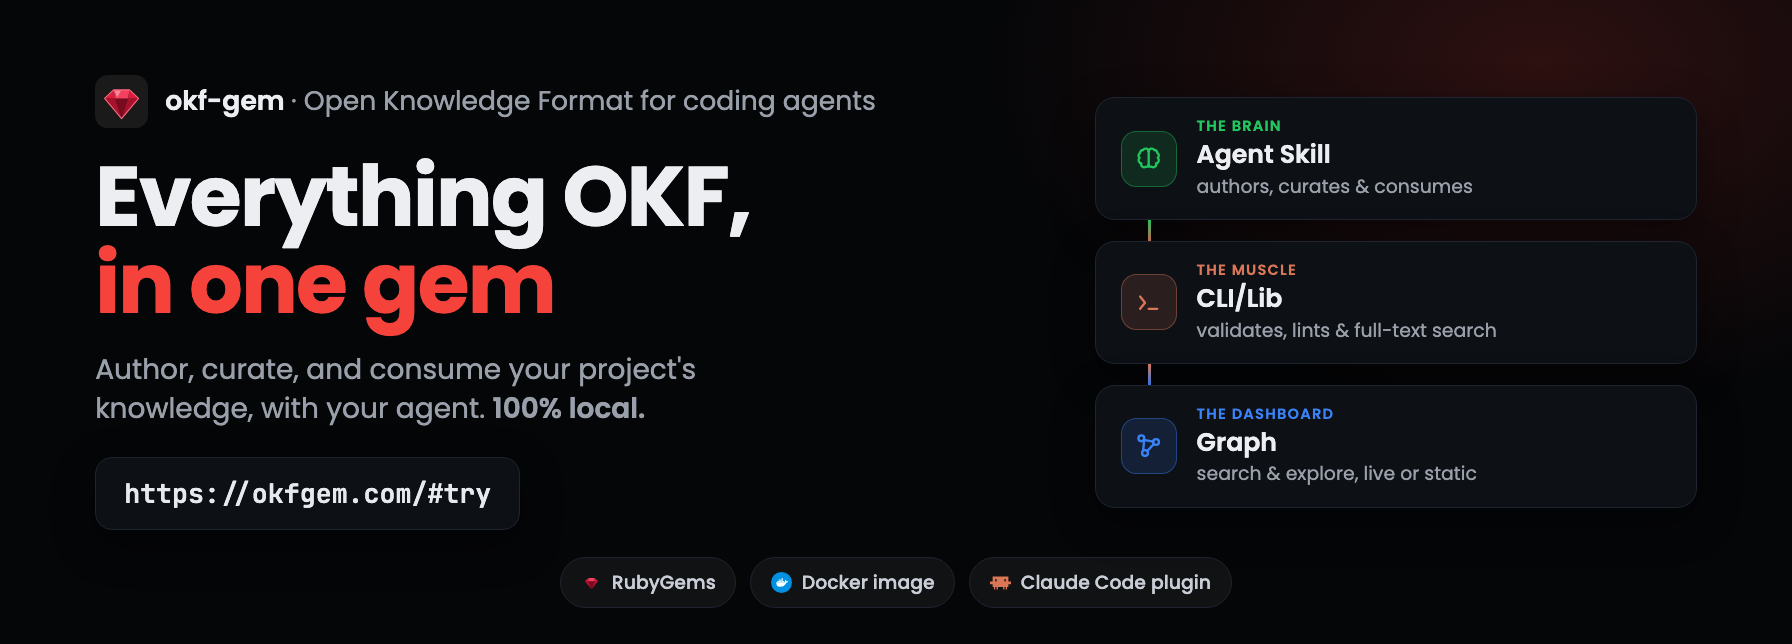
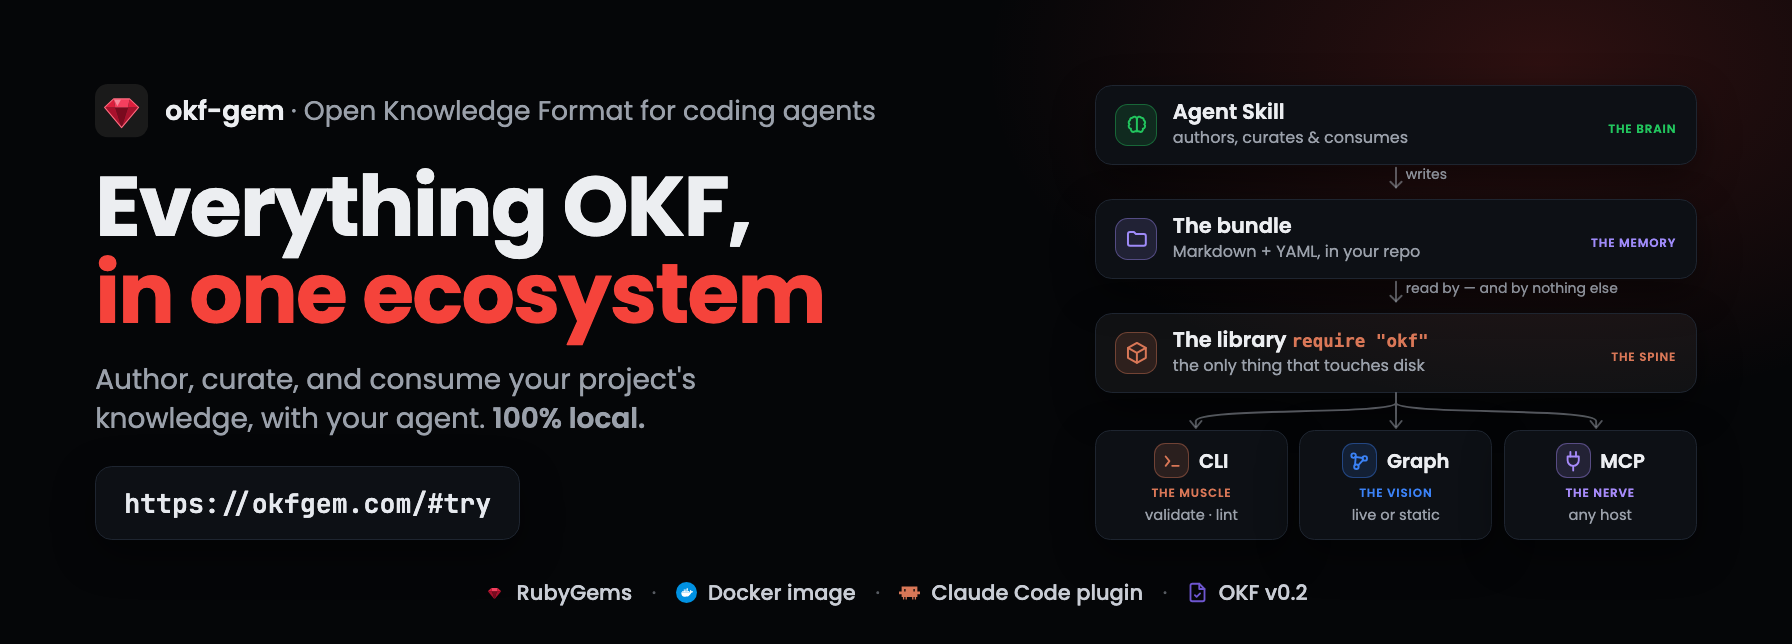
docs: the front door catches up with its art
The banner and the overview gain the MCP server, then the kernel the diagram
was missing, and both cards become that diagram in miniature. The README
follows: both alt texts rewritten, and the single-gem claim retired now that
okf-mcp 1.0.0 has shipped.

────────────────────────────────────────────────────────────────────

docs: the README's art shows MCP, and its alt text says what the art says

Re-rendered from the site's og-src generators: the banner and the overview
diagram now carry the MCP server, and the diagram is drawn in the banner's
own visual language rather than beside it.

Both alt texts are rewritten, because they are the image for a terminal, a
screen reader, and any agent that never fetches the PNG — the banner's
carries "in one ecosystem", the muscle as CLI/Lib and MCP, and the OKF v0.2
chip; the diagram's gains the MCP server as the door that reads and never
writes, and corrects conformance from section 9 to section 11, which the
published v0.2 renumbered.

social-preview.png is the versioned source only. GitHub does not read the
committed file, so the repository's card does not change until it is
uploaded under Settings -> Social preview.

────────────────────────────────────────────────────────────────────

docs: the art draws the kernel it was missing, and the cards carry it in miniature

Re-rendered from the site's og-src generators.

The overview diagram showed the bundle read by three independent things, and
[…]

diff --git a/README.md b/README.md
@@ -2,7 +2,7 @@
   <a href="https://okfgem.com">
     <picture>
       <source media="(prefers-color-scheme: dark)" srcset=".github/hero-dark.png">
-      <img src=".github/hero-light.png" width="100%" alt="okf-gem, the Open Knowledge Format toolkit. Everything OKF, in one gem: author, curate, and consume your project's knowledge, with your agent. 100% local. Start at https://okfgem.com/#try. Three pieces in one install: the Agent Skill (the brain) authors, curates and consumes; the CLI/Lib (the muscle) validates, lints and does full-text search; the Graph (the dashboard) searches and explores it, live or static. Available from RubyGems, as a Docker image, and as a Claude Code plugin.">
+      <img src=".github/hero-light.png" width="100%" alt="okf-gem, the Open Knowledge Format for coding agents. Everything OKF, in one ecosystem: author, curate, and consume your project's knowledge, with your agent. 100% local. Start at https://okfgem.com/#try. The pieces, top to bottom: the Agent Skill (the brain) authors, curates and consumes, and writes the bundle (the memory) — Markdown + YAML, in your repo. The bundle is read by, and by nothing else, the library (the spine): require okf, the only thing that touches disk. Three surfaces sit over it — the CLI (the muscle) for validate and lint, the Graph (the vision) live or static, and MCP (the nerve) for any host. Available from RubyGems, as a Docker image, and as a Claude Code plugin, speaking OKF v0.2.">
     </picture>
   </a>
 </p>
@@ -31,13 +31,13 @@ durable home in your repo, in Markdown your team and your agents both read: the
 decisions and the reasoning an agent cannot re-derive from the code, versioned
 beside the code they explain.
 
-One install carries the whole workflow, and that is the point of a single gem:
+One install carries the whole workflow, and that is the point:
 
 - an **Agent Skill**, so your agent writes and curates the knowledge instead of you;
 - a **CLI and Ruby library**, so it stays correct: validated, linted, and searchable in milliseconds;
 - a **Graph**, so anyone can see the shape of what the team knows, live or as one static file you can host anywhere.
 
-The package is **Agent Skill + CLI/Lib + Graph**. It runs 100% local, adds no
+That is **Agent Skill + CLI/Lib + Graph**. It runs 100% local, adds no
 service to your stack, and does not define a new place to keep knowledge: it
 gives you leverage over the Markdown you already have.
 
@@ -164,12 +164,12 @@ every word, code gets written up for you.
 > In Claude Code, the [plugin](#claude-code-plugin) adds a post-edit curation hook
 > that runs `validate` + `lint` for you.
 
-The package, end to end:
+How the pieces fit together:
 
 <p align="center">
   <picture>
     <source media="(prefers-color-scheme: dark)" srcset=".github/overview-dark.png">
-    <img src=".github/overview-light.png" width="760" alt="The package: the Agent Skill (your coding agent authors and curates, you stay the editor) writes and maintains the bundle, a folder of Markdown + YAML in your repo where one concept is one file and links between files are the knowledge graph. The bundle is read by the CLI/Lib (validate: legal OKF per section 9; lint: well-curated and fresh; search: ranked retrieval; require okf for Ruby objects) and by the Graph, in four modes: okf server (a live local server), okf render (the same page exported as one static, self-contained HTML file you can host anywhere), okf registry (every registered bundle behind one hub), and OKF::Server::App (the Rack app mounted in a Rails route). One gem, 100% local, Ruby 2.4 or newer, only rack, webrick and minifts as dependencies.">
+    <img src=".github/overview-light.png" width="760" alt="The pieces, end to end: the Agent Skill (your coding agent authors and curates, you stay the editor) writes and maintains the bundle, a folder of Markdown + YAML in your repo where one concept is one file and links between files are the knowledge graph. The bundle is read by — and by nothing else — the library (require okf), which reads, validates and indexes it and is the only thing that touches disk. Three surfaces sit over that one kernel. The CLI, for deterministic checks: validate (legal OKF per section 11), lint (curated and fresh), search (find it, ranked), registry (bundles addressed as @slug). The Graph, explored in the browser: okf server (a live local server), okf render (the same page as static, self-contained HTML you can host anywhere), OKF::Server::App (the Rack app for one bundle), OKF::Server::Hub (the Rack app for every bundle). And the MCP server (the okf-mcp gem, read by any MCP host): 14 read tools, reads and never writes, over stdio or http, with no CLI in the loop. The CLI runs the checks and retrieves the data the Agent Skill acts on. 100% local, Ruby 2.4 or newer, only rack, webrick and minifts as dependencies.">
   </picture>
 </p>
 
